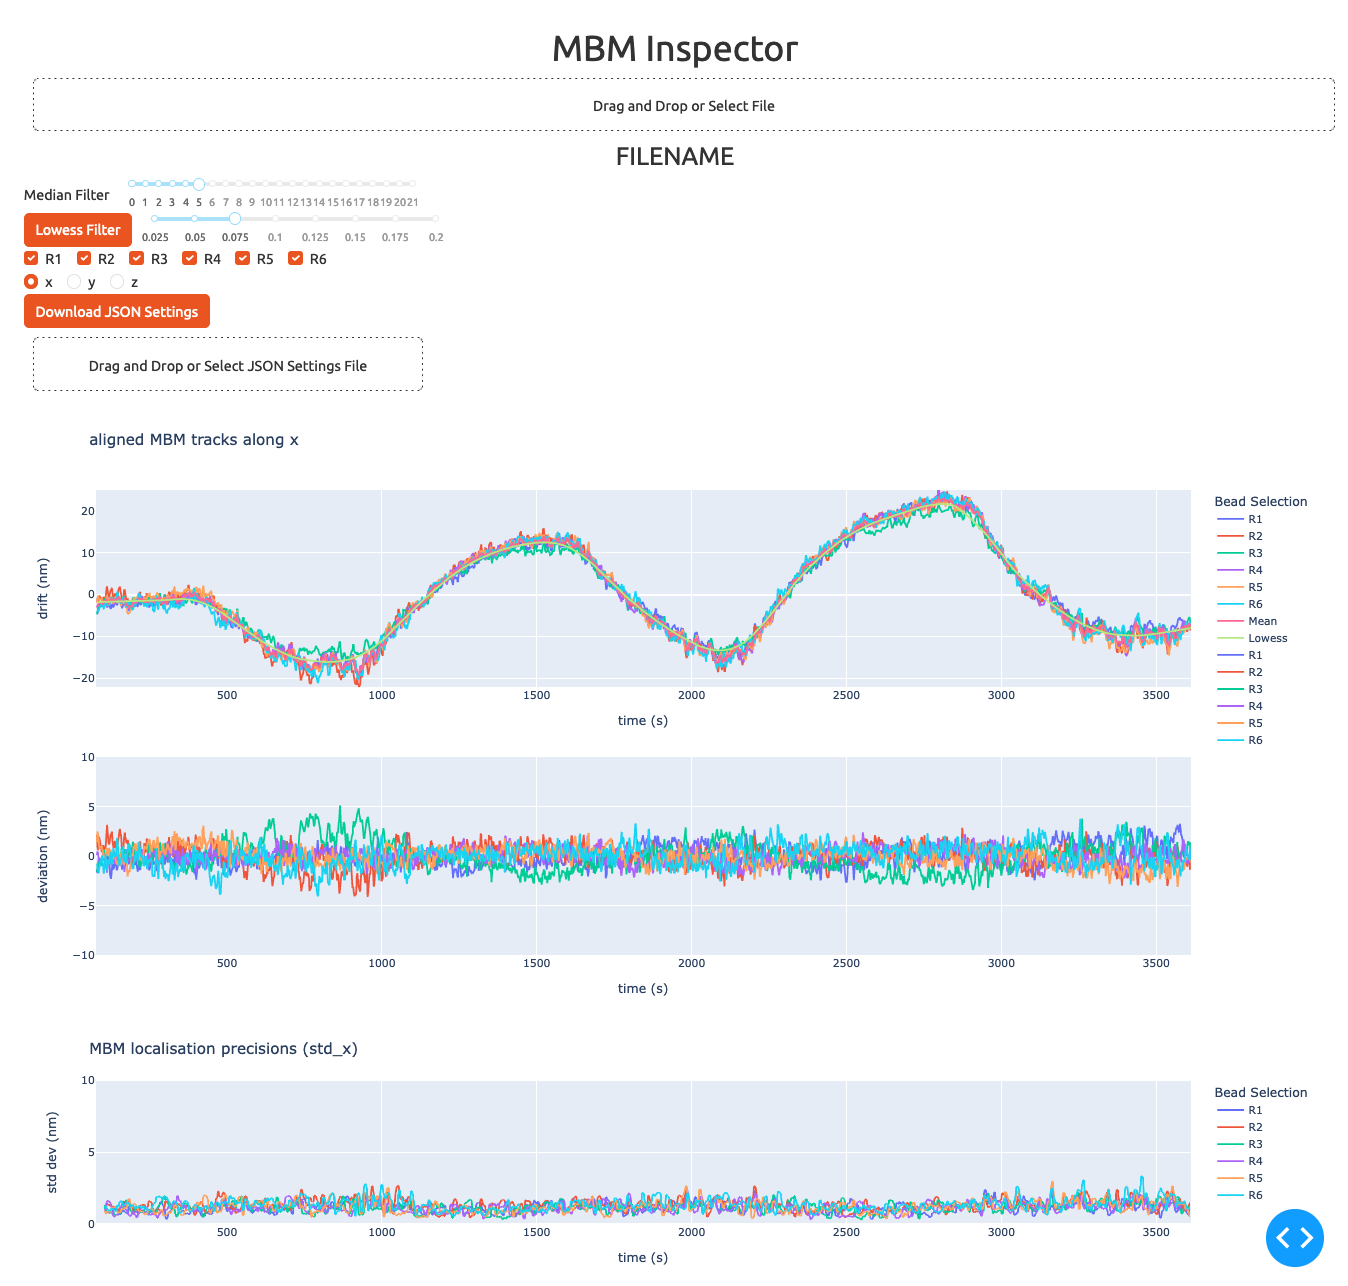
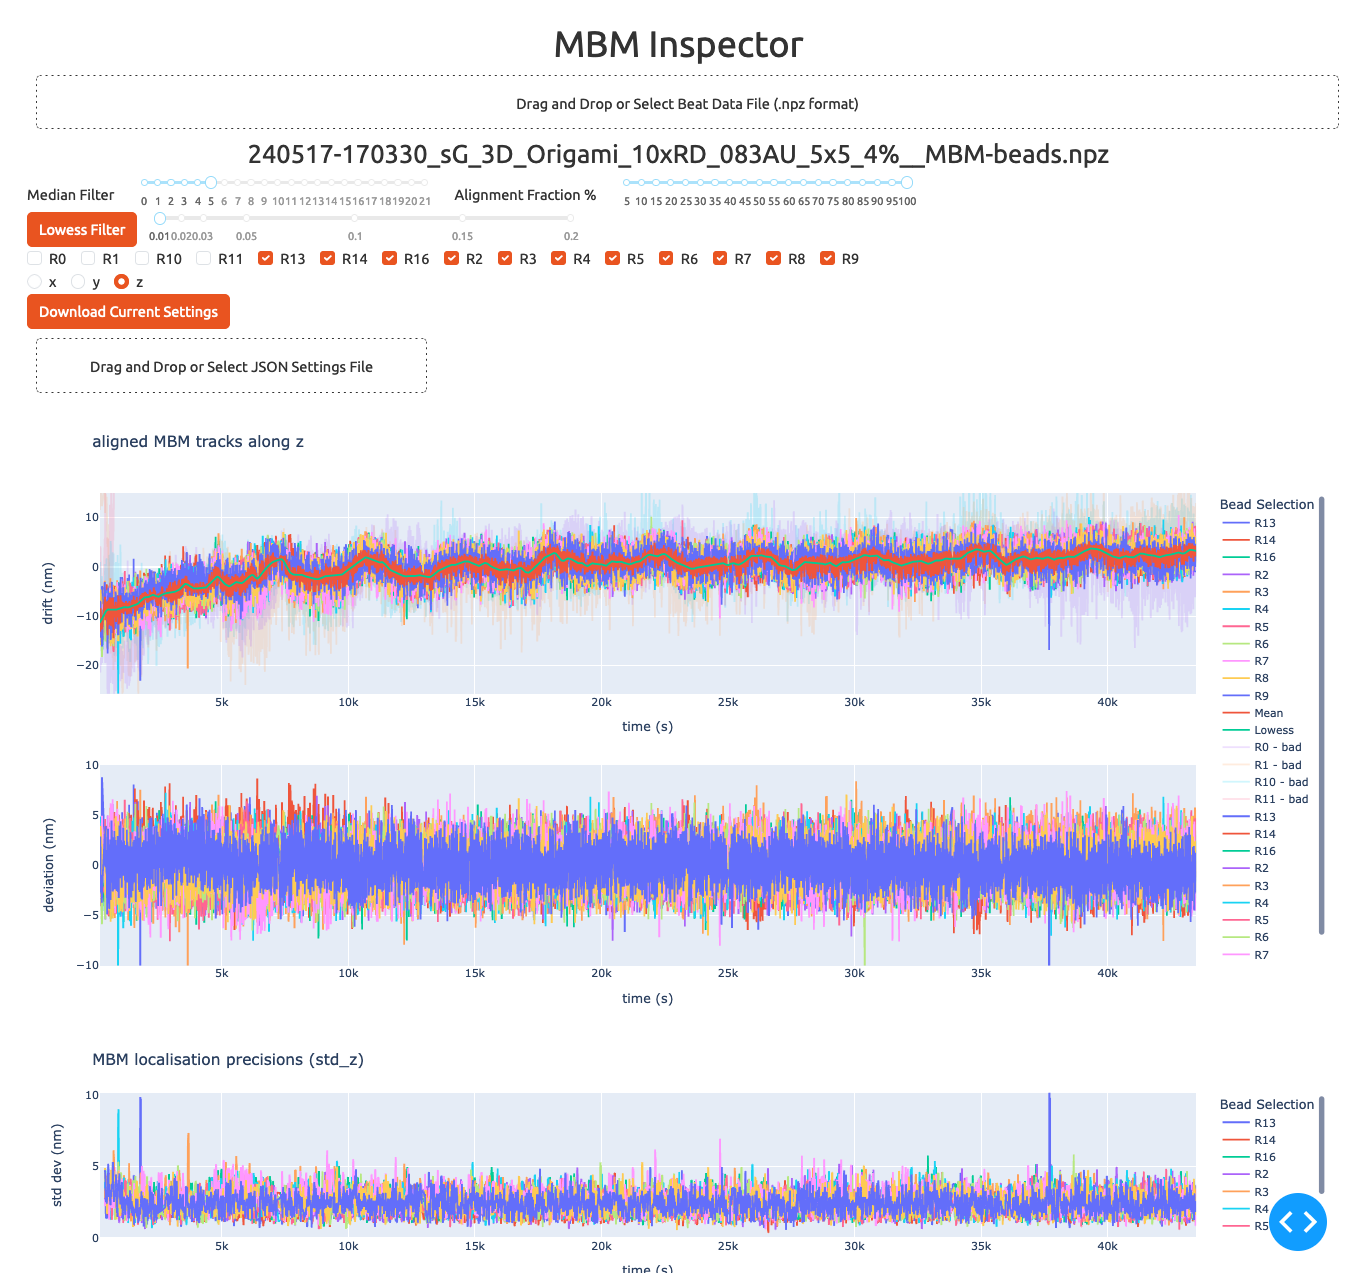
tweak lowess fraction slider; update screenshot

Changed region(s): [[0.0312, 0.337, 0.997, 0.7965], [0.0312, 0.7965, 0.997, 1.0], [0.0, 0.0, 0.8101, 0.3064]]

diff --git a/app.py b/app.py
@@ -87,11 +87,21 @@ app.layout = html.Div(style={'padding': '2rem'},
                                       placement='right',
                                   ),
                                   html.Div( # placing it in a Div allows us to set the width as a percentage of window width
-                                      dcc.Slider(0.025, 0.2, 0.025,
-                                                 value=0.1,
+                                      dcc.Slider(0.01, 0.2,
+                                                 step=None,
+                                                 marks={
+                                                     0.01: '0.01',
+                                                     0.02: '0.02',
+                                                     0.03: '0.03',
+                                                     0.05: '0.05',
+                                                     0.1: '0.1',
+                                                     0.15: '0.15',
+                                                     0.2: '0.2',
+                                                 },
+                                                 value=0.03,
                                                  id='lowess-slider'
                                                  ),
-                                      style={'width':'25%'}),
+                                      style={'width':'40%'}),
                               ],
                               direction="horizontal",
                           ),
